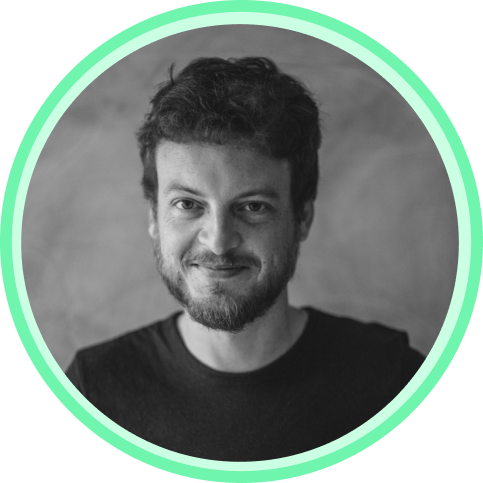
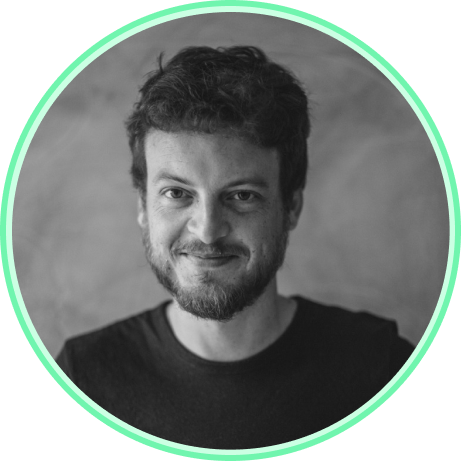
Add Firebase and change profile image

diff --git a/components/About.js b/components/About.js
@@ -70,6 +70,9 @@ const About = () => {
 								<span>PostgreSQL</span>
 							</li>
 							<li>
+								<span>Firebase</span>
+							</li>
+							<li>
 								<span>Express</span>
 							</li>
 							<li>
